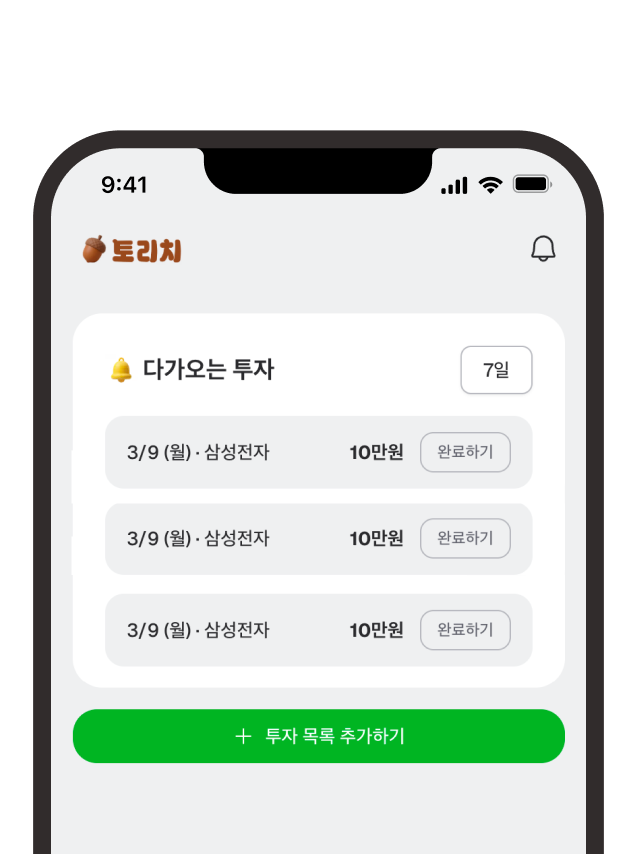
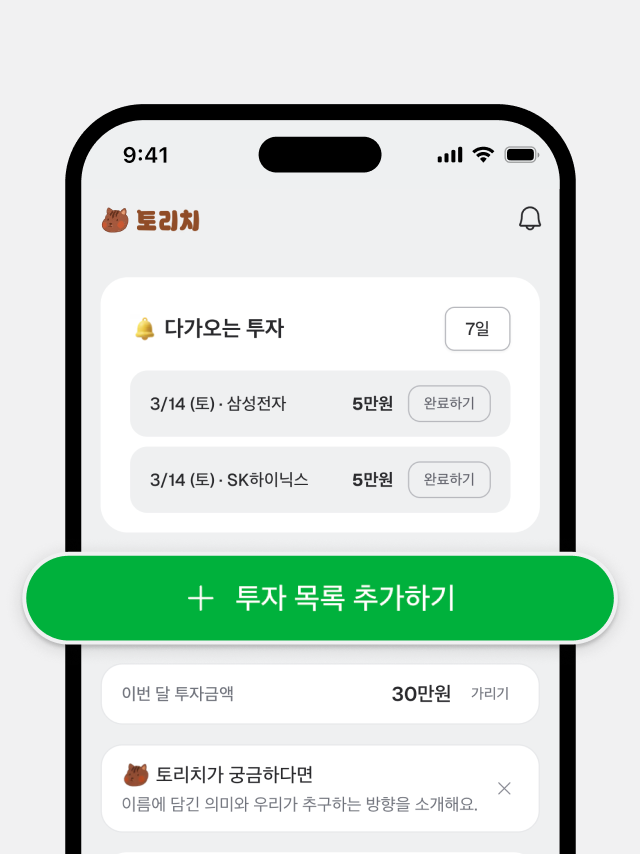
feat(onboarding): 온보딩 스텝 이미지 3장 교체
- step1~3 PNG를 새 목업(홈·캘린더·통계)으로 교체
- onboarding.ts 주석 및 imageAlt를 화면 내용에 맞게 정리

Made-with: Cursor

diff --git a/app/constants/onboarding.ts b/app/constants/onboarding.ts
@@ -4,9 +4,9 @@
  * 비율 3:4(가로:세로), 권장 640×853px. public/images/onboarding/README.md 참고.
  *
  * [이미지 제안 의미]
- * step1: 적립식 투자 포지셔닝 (젊은 투자자, 가볍게 시작하는 분위기 + 푸시 알림)
- * step2: 일정·납입 관리 (다가오는 투자일 + 납입 여부를 한 번에 보여주는 화면)
- * step3: 투자 루틴·습관 (월급날/자동이체 등, 꾸준함을 지켜주는 느낌)
+ * step1: 홈 대시보드 (다가오는 투자·이번 달 요약 등 앱 첫 화면)
+ * step2: 캘린더·납입 일정 (투자일·완료 여부를 한 화면에서 확인)
+ * step3: 통계·예상 자산 (장기 복리·예상 수익 차트)
  */
 export const ONBOARDING_STEPS = [
   {
@@ -21,13 +21,13 @@ export const ONBOARDING_STEPS = [
     title: '이번 달 넣을 날, 한 번에 확인',
     subtitle: '다가오는 투자일과 납입 여부를\n캘린더 한 화면에서 확인해요.',
     imageSrc: '/images/onboarding/step2.png',
-    imageAlt: '핵심 기능',
+    imageAlt: '캘린더·납입 일정',
   },
   {
     showLogo: true,
     title: '작은 돈도 꾸준히, 흔들리지 않게',
     subtitle: '월급날·자동이체 일정에 맞춰\n내 투자 루틴을 지켜줘요.',
     imageSrc: '/images/onboarding/step3.png',
-    imageAlt: '투자 루틴',
+    imageAlt: '통계·예상 자산',
   },
 ] as const
